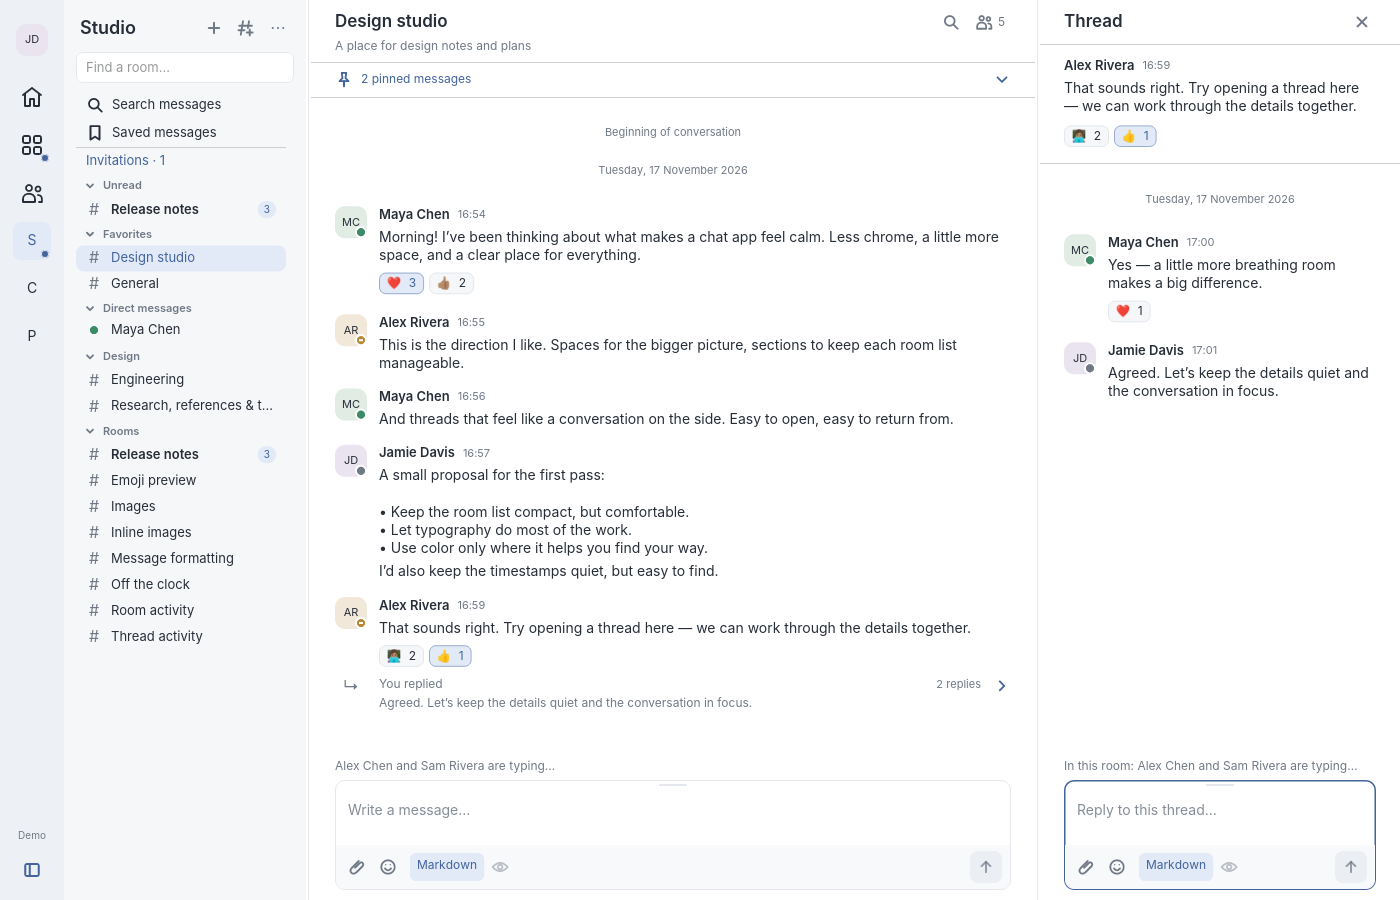
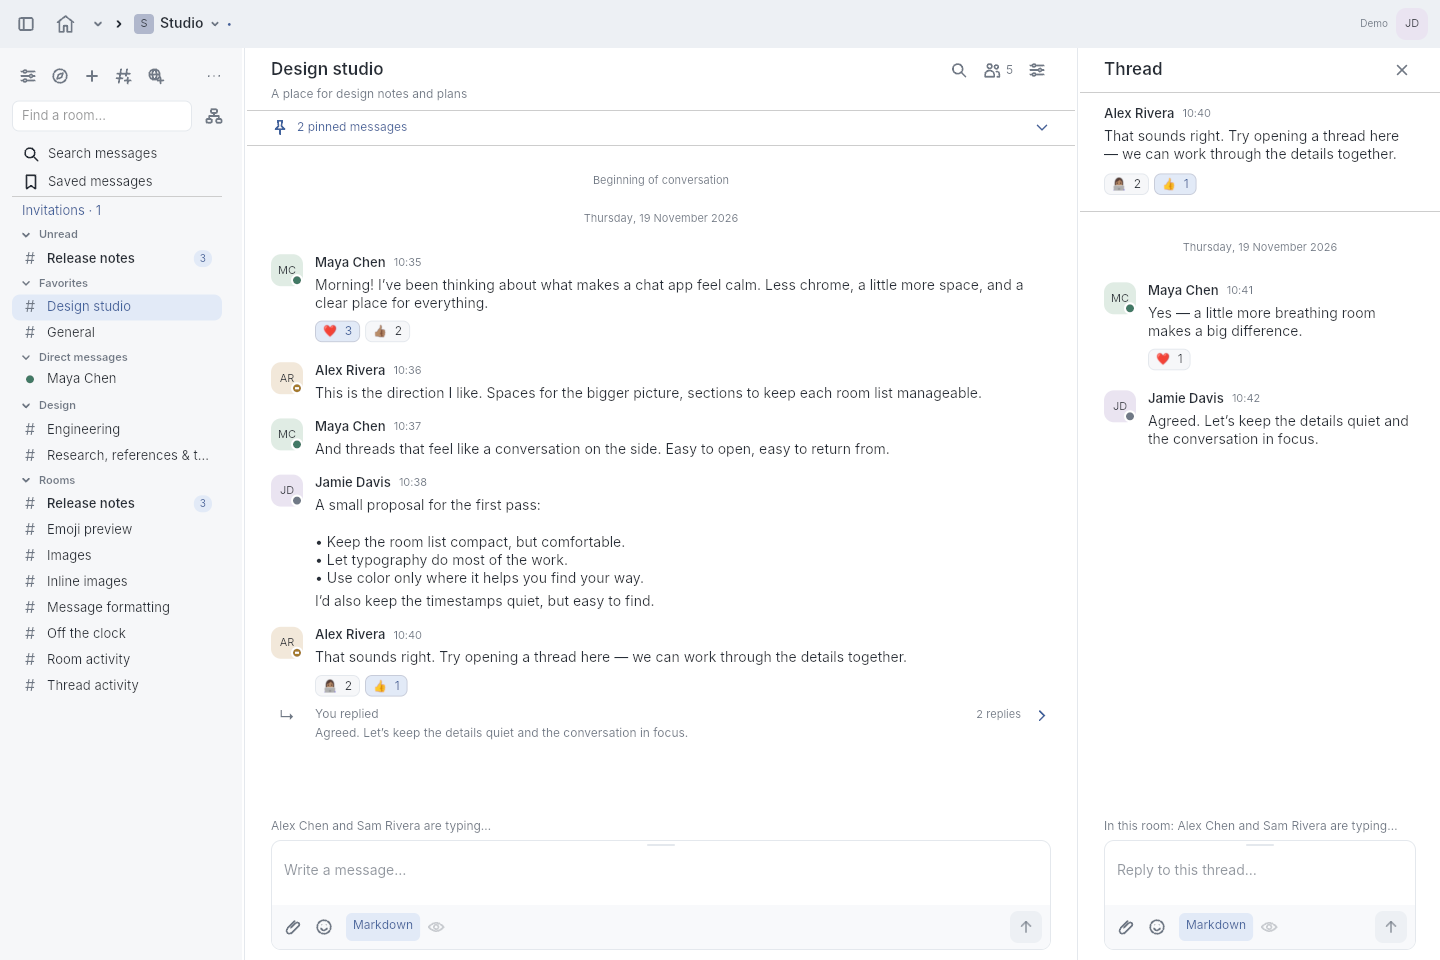
update readme

diff --git a/README.md b/README.md
@@ -11,20 +11,67 @@ Minimal UI, organized conversations, and event-driven updates to keep idle CPU l
 Fully AI-coded for personal use and shared as a working prototype. Developed on
 Linux/Wayland; Apple Silicon macOS builds are experimental.
 
-![Home, room sections, and a side-by-side thread using local demo data](docs/images/demo.png)
+![Design studio with custom room sections, reactions, pinned messages, and a separate thread pane](docs/images/demo.png)
 
-## Features
+Keep a room and its thread open together, with separate composers and drafts.
+All screenshots and the keyboard tour below use local demo data.
 
-- Password/SSO login, saved sessions, encrypted messaging, and device verification.
-- Nested spaces, custom room sections, quick switching, and keyboard navigation.
-- Room/thread panes, encrypted text drafts, Markdown/math, mentions, reactions,
-  and custom emoji packs.
-- Message search, saved messages, editing, replies, and deletion.
-- Images, click-to-play GIFs, attachments via picker/paste/drop, and save/open.
-- Room/space creation and discovery, invitations, member management, and settings.
-- Desktop notifications, light/dark themes, and optional presence refresh.
+## A closer look
 
-![Account-wide message search using local demo data](docs/images/search.png)
+### Spaces without losing your place
+
+Browse nested spaces through breadcrumbs, a tree menu, or a searchable picker.
+Selecting a space filters the room list while keeping the open conversation,
+thread, drafts, and reading positions. Include subspaces when you want a wider
+view; arrange rooms into custom sections and reorder them by dragging.
+
+![Studio → Product → Design selected, with the nested space tree open and the original room and thread still visible](docs/images/spaces.png)
+
+### Navigate from the keyboard
+
+Open a thread with **Alt+T**, pick a space with **Ctrl+Shift+P**, switch rooms
+with **Ctrl+P**, and search messages with **Ctrl+Shift+F**. **Escape** takes you
+back to the conversation. On macOS, use **Command** in place of **Ctrl**.
+
+![Keyboard navigation tour with key presses shown: open a thread, filter by a nested space, switch rooms, search messages, and return to the conversation](docs/images/keyboard-navigation.gif)
+
+The 26-second loop pauses at each step. See [keyboard shortcuts](docs/keyboard.md)
+for the full reference; the still images also show these views.
+
+### More expressive conversations
+
+Write Markdown and check an on-demand preview before sending. Messages support
+syntax-highlighted code, LaTeX math, quotes, lists, spoilers, inline images, and
+selectable text across messages. Complete user mentions, room links, and emoji
+from the composer; manage personal and room custom emoji packs in Settings.
+Text drafts persist encrypted per room and thread across restarts.
+
+![Formatted messages with highlighted code, a rendered math draft preview, and its Markdown source](docs/images/formatting.png)
+
+### Find the conversation again
+
+Search loaded messages in a room or search across the account, combining local
+results with homeserver search where available. Explicitly load older encrypted
+history in batches when you need to look further; results depend on available
+room keys. Open a result at its original room or
+thread, or bookmark messages for an account-wide saved view.
+
+![Account-wide search for “quiet”, with highlighted matches from multiple conversations](docs/images/search.png)
+
+## Other features
+
+- Password and browser SSO login, saved sessions, encrypted messaging, and device
+  verification.
+- Replies, editing, confirmed deletion, reactions, pinned messages, and read receipts.
+- Images and an image viewer, click-to-play GIFs, and attachments via file picker,
+  paste, or drag and drop, with save/open actions.
+- Direct chats, room and space creation, public-room discovery, invitations,
+  member roles, room/space avatars, and notification/access settings.
+- Keyboard navigation and quick switching, light/dark themes, desktop
+  notifications, and optional presence refresh (off by default).
+
+See [current limitations](docs/limitations.md) for unsupported features and
+[settings](docs/settings.md) for configuration and room/space management.
 
 ## Try it
 
@@ -35,14 +82,17 @@ cargo run --locked --bin interconnect -- --demo
 ```
 
 Demo uses local sample data without saved accounts or network access. Omit `--demo`
-to sign in; the homeserver must support native sliding sync.
+to sign in; the homeserver must support native sliding sync. Account storage
+requires Linux Secret Service or macOS Keychain. One account is supported per
+process; calls and recovery/key-backup UI are not available yet.
 
+Tagged GitHub Releases provide an amd64 Debian package, a Linux tarball, an
+Apple Silicon macOS app, and checksums. See [release downloads and installation](docs/development.md#tagged-releases).
 Experimental [Debian packages](docs/development.md#debian-package-automation) and
-[macOS builds](docs/development.md#download-a-bleeding-edge-macos-build) are available
-from GitHub Actions. macOS builds are ad-hoc signed and not notarized.
+[macOS builds](docs/development.md#download-a-bleeding-edge-macos-build) are also
+available from GitHub Actions. macOS builds are ad-hoc signed and not notarized.
 
-See [documentation](docs/README.md), [shortcuts](docs/keyboard.md), and
-[current limitations](docs/limitations.md).
+See [documentation](docs/README.md) and [keyboard shortcuts](docs/keyboard.md).
 
 ## License
 

diff --git a/docs/development.md b/docs/development.md
@@ -44,6 +44,50 @@ profile or opens sign-in. Use a dedicated test profile for connected validation;
 see [profiles](settings.md#account-profiles) and [UI checks](validation/connected-ui.md).
 Do not send test messages or restart an existing connected client without authorization.
 
+### README screenshots
+
+The images in `docs/images/` are captures of the running demo, using a 1440×960
+window and the default light theme on Linux/Wayland. Capture only the app's
+content, excluding desktop chrome, tooltips, and other windows. Keep each image
+focused on a different workflow:
+
+| Image | Demo setup |
+| --- | --- |
+| `demo.png` | Start in Studio → Design studio; Alt+T opens the latest thread beside the room. |
+| `spaces.png` | Keep that room/thread open; use Home's tree to select Studio → Product → Design, then reopen the tree. The filtered sidebar and unchanged conversation should both be visible. |
+| `formatting.png` | Ctrl+P → Message formatting; enter the draft below and click the preview eye. Focus the composer and use Page Up to show the beginning of the timeline with highlighted code. |
+| `search.png` | Ctrl+Shift+F → search for `quiet` and submit to show matches across conversations. |
+
+`keyboard-navigation.gif` is a paced sequence of actual demo captures with key
+labels added below the app. Capture the following states in order, allowing the
+UI to settle after every key press:
+
+1. Initial Design studio room; Alt+T opens its thread.
+2. Ctrl+Shift+P opens the space picker; type `Design`, Down selects Mobile,
+   then Enter filters the sidebar while preserving the room/thread.
+3. Ctrl+P opens the room picker; type `Design studio`, then Enter opens the room.
+   Alt+T returns to its thread.
+4. Ctrl+Shift+F opens account search; type `quiet`, Enter shows results,
+   then Escape returns to the conversation.
+
+Use the same 1440×960 capture area; resize to 1200×800 and append a 76-pixel
+caption/key strip. The GIF has 14 frames held for 1.3–2.8 seconds (26 seconds in
+total), a shared 256-color palette, and no transition effects. Keep source frames
+and intermediate rendering files outside the repository. Verify every capture
+contains only the demo window and inspect the decoded GIF before replacing it.
+
+The formatting capture uses this unsent draft:
+
+```text
+**A useful identity**
+$$\sum_{n=1}^{\infty} \frac{1}{n^2} = \frac{\pi^2}{6}$$
+```
+
+These screenshots demonstrate local UI states, not connected-server acceptance
+or draft persistence across restarts. Demo history is already fully included;
+its search view does not exercise encrypted history downloads. See the
+[connected UI guide](validation/connected-ui.md) for those checks.
+
 ## macOS builds
 
 On a Mac with Rust and Xcode command-line tools:
